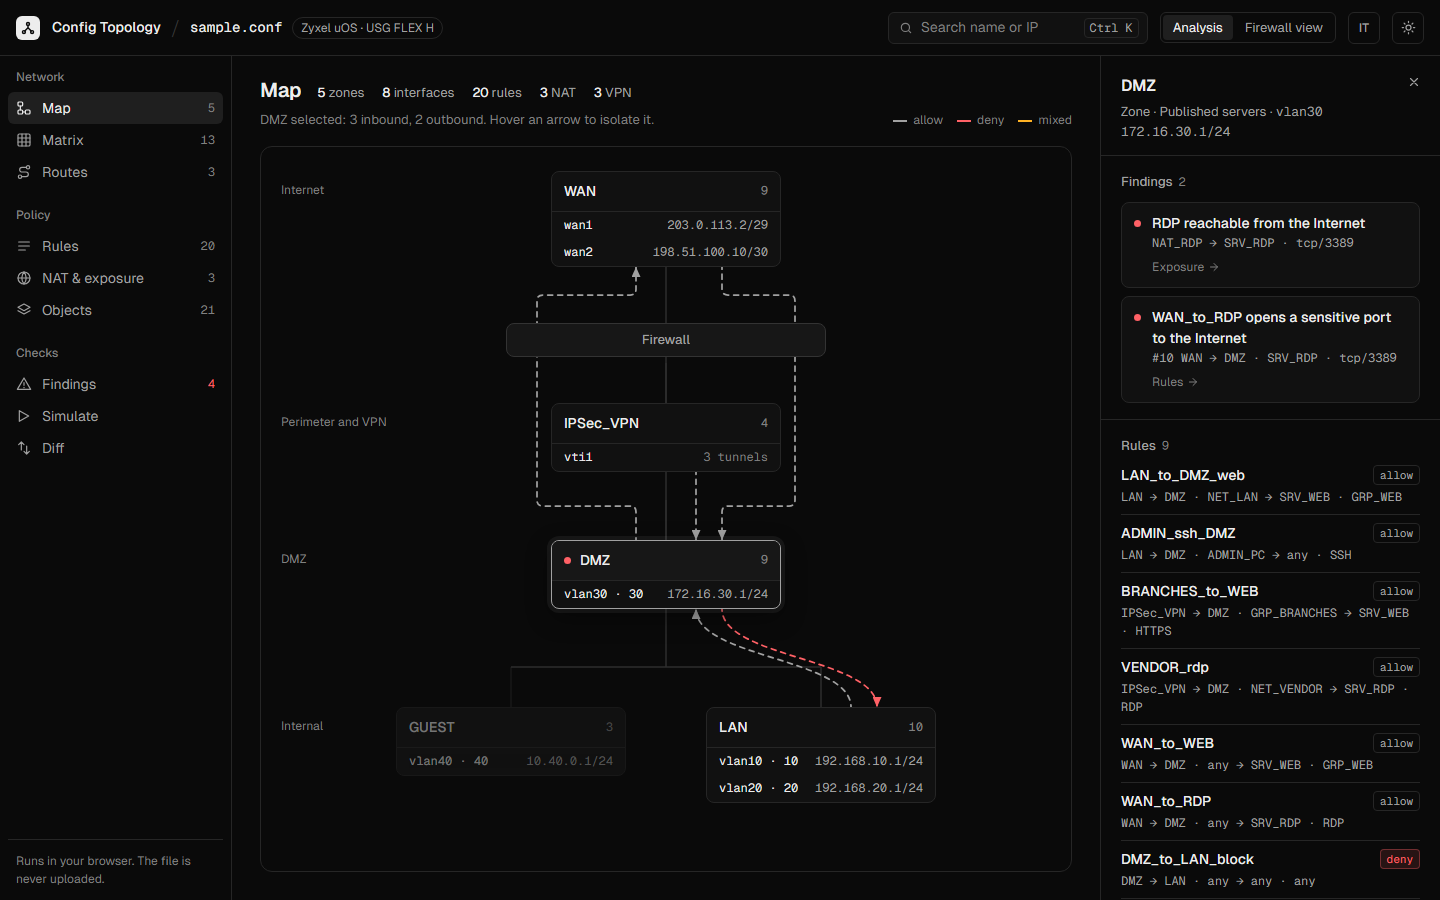
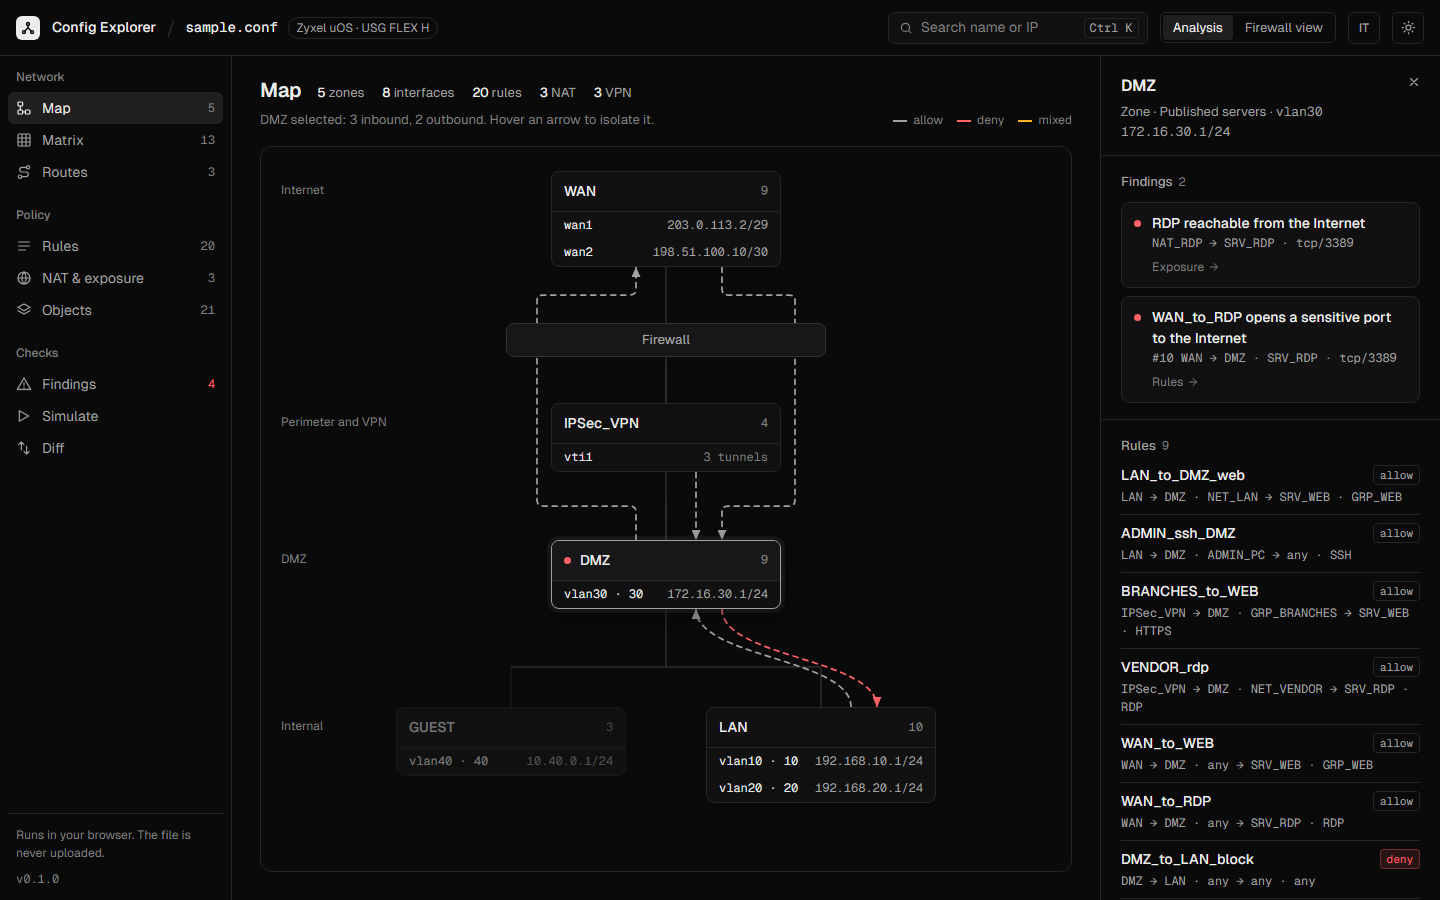
Link preview: Open Graph tags and card; refresh screenshot

diff --git a/index.html b/index.html
@@ -4,6 +4,18 @@
     <meta charset="UTF-8" />
     <meta name="viewport" content="width=device-width, initial-scale=1.0" />
     <title>Config Explorer for Zyxel uOS</title>
+    <meta name="description" content="See what's inside a Zyxel uOS firewall configuration at a glance: zones, traffic and findings. Runs in your browser, nothing is uploaded." />
+    <link rel="canonical" href="https://rainpwn.github.io/zyxel-config-explorer/" />
+    <meta property="og:type" content="website" />
+    <meta property="og:site_name" content="Config Explorer" />
+    <meta property="og:title" content="Config Explorer for Zyxel uOS" />
+    <meta property="og:description" content="See what's inside a Zyxel uOS firewall configuration at a glance: zones, traffic and findings. Runs in your browser, nothing is uploaded." />
+    <meta property="og:url" content="https://rainpwn.github.io/zyxel-config-explorer/" />
+    <meta property="og:image" content="https://rainpwn.github.io/zyxel-config-explorer/og.png" />
+    <meta property="og:image:width" content="1200" />
+    <meta property="og:image:height" content="627" />
+    <meta property="og:image:alt" content="Config Explorer: a map of a firewall's zones and traffic, with findings in a side panel" />
+    <meta name="twitter:card" content="summary_large_image" />
     <meta name="color-scheme" content="dark light" />
     <!-- Fonts are self-hosted (see theme.css): no third-party requests, and the
          app keeps working offline. Preload avoids a flash of the fallback. -->
